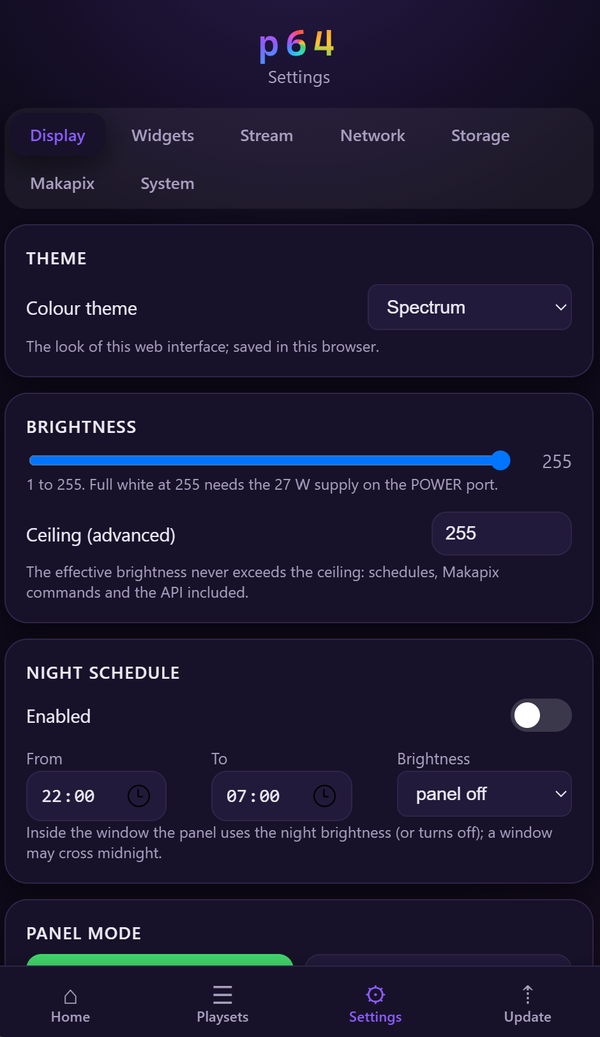
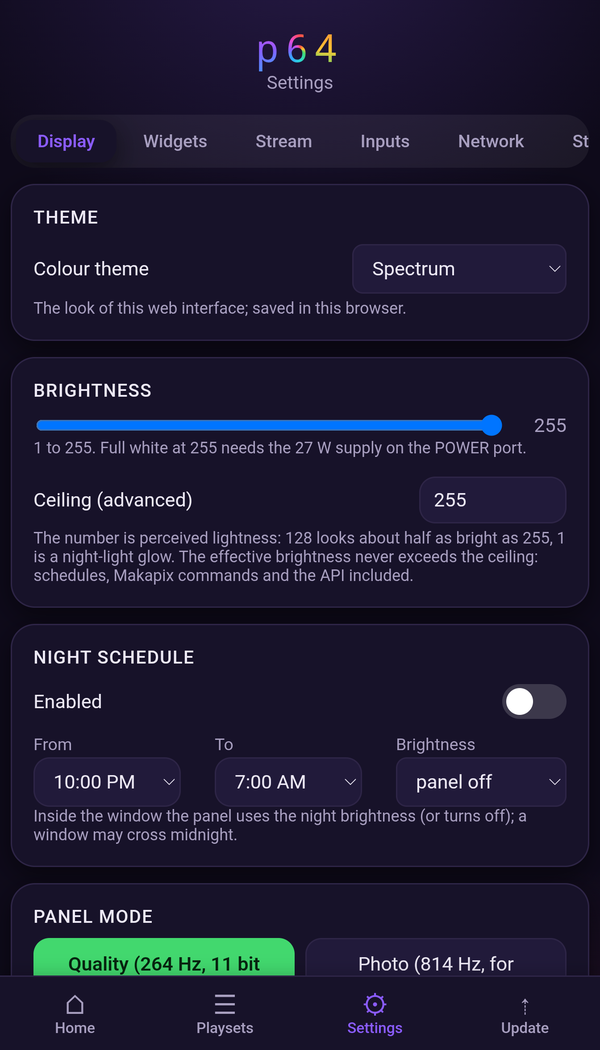
docs: the README's photos lead with the printed v7a shell (p080)
Photos of 2026-10-09, the v7a shell assembled and in use, replace the v1
pictures on the landing page: a new hero (on the desk next to a laptop,
time overlay on), the first grid (a clock face with the date, a synthwave
artwork, the wedge from the side), a new 5 s clip of the synthwave artwork
as p64-playing.gif (10 fps, 3 MB), and the "More photos" grid rebuilt from
v7a (back with the vents and the USB-C window, in the hand, two lights-off
shots, two overlay shots by the laptop) with one row kept as history (first
light, the empty v1 shell, the first artwork in v1). The old hero stays as
p64-v1-hero.jpg; the other v1 files stay in the folder, unlinked. The home
and settings screenshots of the web UI are retaken from the phone (Spectrum
theme, the info button); the playsets one is unchanged. The build guide's
note on which shell the photos show is updated. The originals (git-ignored
docs/images/photos/2026-10-09/) are resized to 1600 px like the rest.

Claude-Session: https://claude.ai/code/session_01HvSvY98tGRp519d6WjwKfv

diff --git a/README.md b/README.md
@@ -6,7 +6,7 @@ card and from [Makapix Club](https://makapix.club), shows a clock, the weather a
 temperature, and takes live pixel streams from your computer. Open source, built from two
 off-the-shelf Waveshare boards, no soldering.
 
-![p64 on a desk, playing an animation with the clock overlay](docs/images/photos/p64-hero.jpg)
+![p64 in its printed shell on a desk next to a laptop, playing an artwork with the clock overlay](docs/images/photos/p64-hero.jpg)
 
 ## What it does
 
@@ -32,11 +32,11 @@ off-the-shelf Waveshare boards, no soldering.
 - **Updates itself.** Firmware updates come from GitHub Releases with a verified install
   and rollback. Nothing is downloaded or installed without you pressing the button.
 
-| ![Analogue clock face](docs/images/photos/p64-clock-face.jpg) | ![An artwork with the time overlay](docs/images/photos/p64-artwork.jpg) | ![Next to a laptop, for scale](docs/images/photos/p64-on-the-desk.jpg) |
+| ![The digital clock face with the date over a painted landscape](docs/images/photos/p64-clock.jpg) | ![A synthwave sunset artwork](docs/images/photos/p64-synthwave.jpg) | ![The shell seen from the side, a thin wedge](docs/images/photos/p64-side.jpg) |
 |---|---|---|
-| The analogue clock face | Time overlay on an artwork | 128 mm square, for scale |
+| A clock face, with the date | An artwork | From the side |
 
-![A short clip of an animation playing with the clock overlay](docs/images/photos/p64-playing.gif)
+![A short clip of an animation playing in the shell](docs/images/photos/p64-playing.gif)
 
 The web UI, on a phone:
 
@@ -46,13 +46,13 @@ The web UI, on a phone:
 
 More photos:
 
-| ![The bare panel on the bench, showing its first animation](docs/images/photos/p64-bare-panel-first-light.jpg) | ![The empty v1 shell seen from above](docs/images/photos/p64-shell-v1-empty-top.jpg) | ![The driver board and its leads behind the panel](docs/images/photos/p64-panel-back-wiring.jpg) |
+| ![The back of the shell: vent slots, the USB-C window and the cable with its inline switch](docs/images/photos/p64-back.jpg) | ![The back of the shell held in one hand](docs/images/photos/p64-back-in-hand.jpg) | ![An artwork with the time overlay, next to a laptop](docs/images/photos/p64-mummy-laptop.jpg) |
 |---|---|---|
-| First light, before the shell | The v1 shell, empty | The driver board behind the panel |
-| ![The first artwork in the shell](docs/images/photos/p64-first-artwork-in-shell.jpg) | ![p64 held in one hand](docs/images/photos/p64-in-hand.jpg) | ![An artwork in a dark room](docs/images/photos/p64-artwork-in-a-dark-room.jpg) |
-| First artwork in the shell | In the hand | Lights off |
-| ![The weather widget](docs/images/photos/p64-brick-wall-weather.jpg) | ![A mosaic of small artworks](docs/images/photos/p64-brick-wall-artwork-mosaic.jpg) | ![The whole desk, p64 at the left](docs/images/photos/p64-desk-wide.jpg) |
-| The weather widget | A mosaic artwork | On the desk |
+| The back: vents and the USB-C window | In the hand | Time overlay on an artwork |
+| ![A red car artwork in a dark room](docs/images/photos/p64-night-car.jpg) | ![A monochrome artwork in a dark room](docs/images/photos/p64-night-monochrome.jpg) | ![Another artwork with the time overlay, next to a laptop](docs/images/photos/p64-yoshi-laptop.jpg) |
+| Lights off | Lights off, monochrome | Next to a laptop |
+| ![The bare panel on the bench, showing its first animation](docs/images/photos/p64-bare-panel-first-light.jpg) | ![The empty v1 shell seen from above](docs/images/photos/p64-shell-v1-empty-top.jpg) | ![The first artwork in the v1 shell](docs/images/photos/p64-first-artwork-in-shell.jpg) |
+| History: first light, before any shell | History: the v1 shell, empty | History: the first artwork in the v1 shell |
 
 The rest are in [`docs/images/photos/`](docs/images/photos/). There is also a 50-second
 concept video of p64b rendered from the enclosure model (the shell as designed, the

diff --git a/docs/build-your-own.md b/docs/build-your-own.md
@@ -8,8 +8,8 @@ power lead goes into screw terminals.
 The state of things on 2026-10-09: the firmware is complete for version 1 and runs
 daily on one device, but there is no ready-made firmware image yet, so step 3 compiles it
 from source. The current shell, v7, is printed in both variants and the p64a one is
-assembled and in use; the p64b one waits for its soldered wiring. The shell in the older
-photos is version 1. Both are covered below. p64 comes in two variants: **p64a** without rotary knobs
+assembled and in use; the p64b one waits for its soldered wiring. The shell in the README's
+photos is v7a, except the three marked as history, which show version 1. Both are covered below. p64 comes in two variants: **p64a** without rotary knobs
 (no soldering at all) and **p64b** with two knobs on the back (soldered wiring, see
 `docs/hardware/`); pick one before printing, the shells differ.
 
